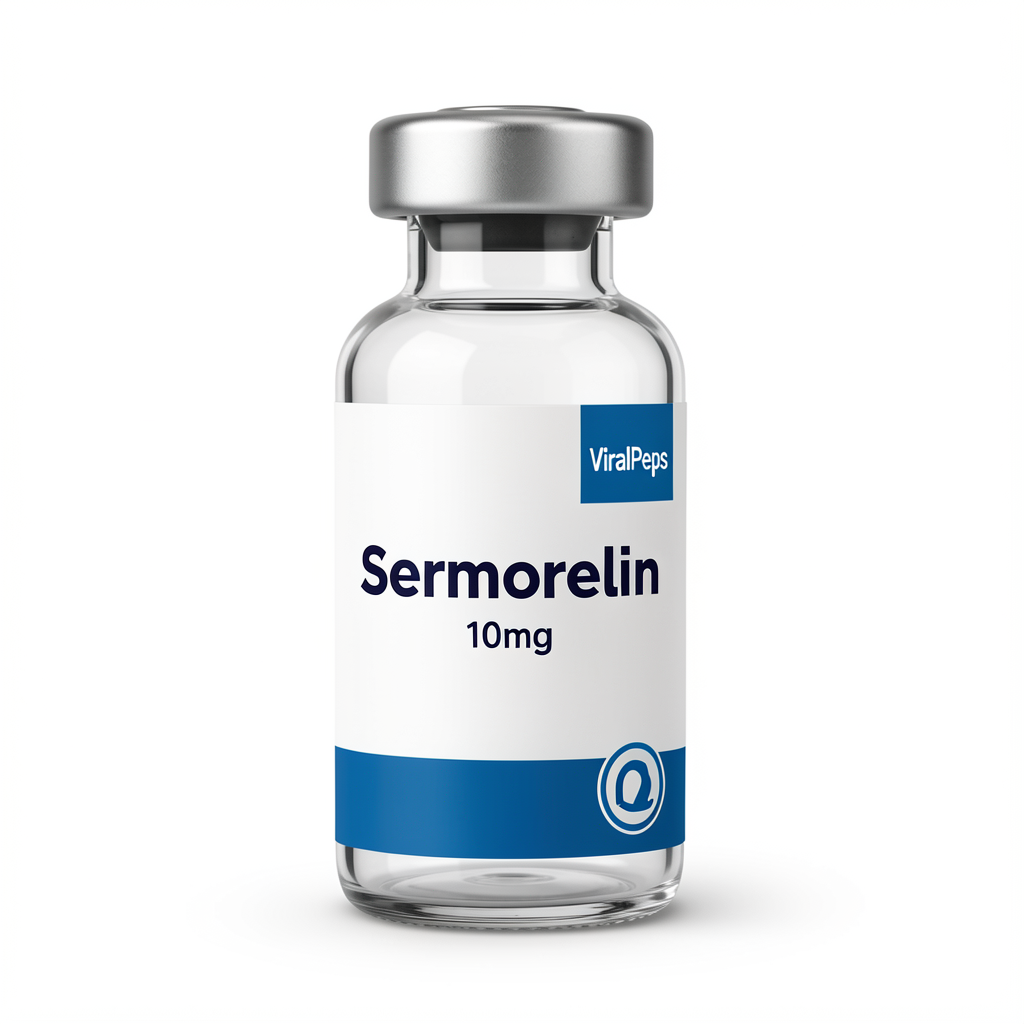
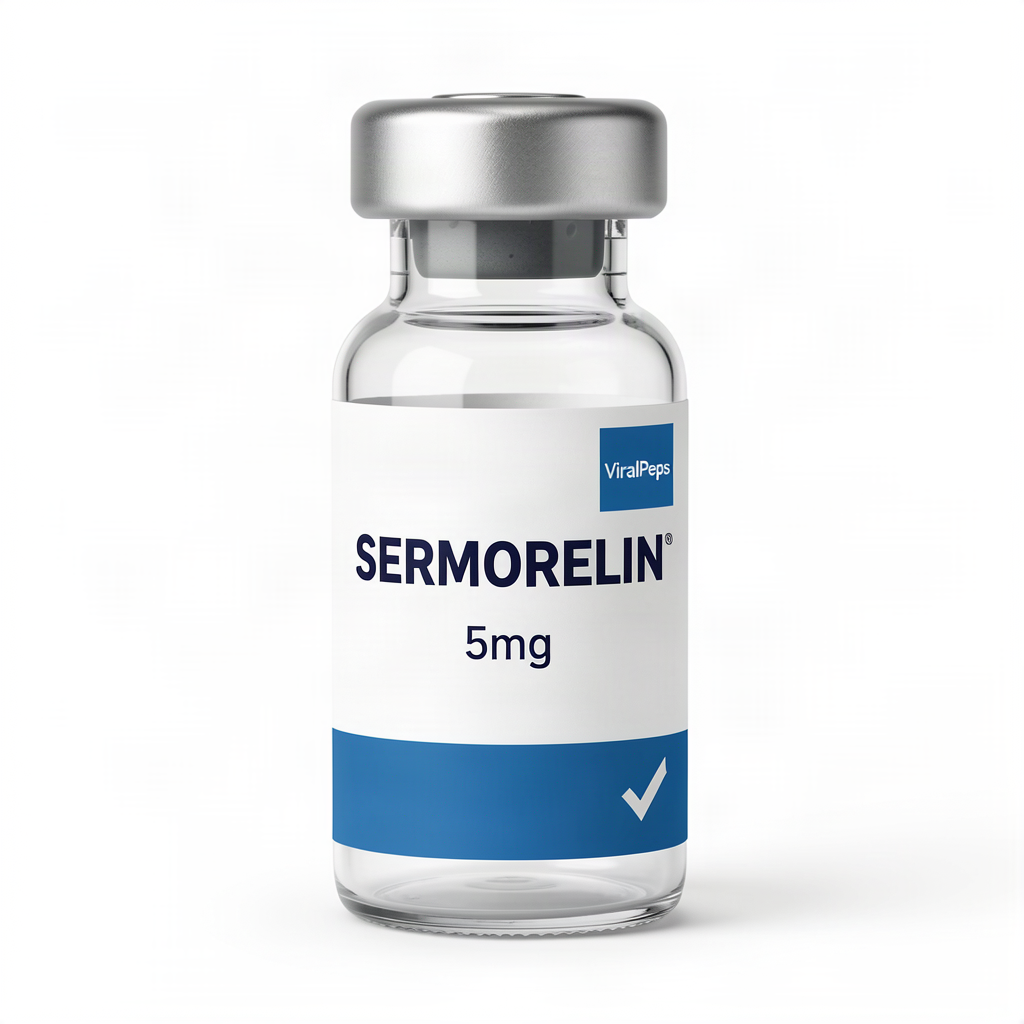
Add Sermorelin for Muscle Growth goal article + vial & guide card

Changed region(s): [[0.3438, 0.0625, 0.6875, 0.6562], [0.3125, 0.6875, 0.6875, 0.9375], [0.3125, 0.3438, 0.5312, 0.4062]]

diff --git a/src/data/research-content.ts b/src/data/research-content.ts
@@ -8379,5 +8379,74 @@ const content: Record<string, ResearchPageContent> = {
     'King SH, Mayorov AV, Balse-Srinivasan P, et al. Melanocortin receptors, melanotropic peptides and penile erection. Curr Top Med Chem. 2007;7(11):1098-1106. PMID: 17584132.',
   ],
 },
+
+'sermorelin-for-muscle-growth': {
+  slug: 'sermorelin-for-muscle-growth',
+  compoundSlug: 'sermorelin',
+  pullQuote: 'Sermorelin is the muscle-growth GHRH analog that works with your own axis instead of overriding it - it amplifies the pulsatile GH and IGF-1 signal that drives lean mass, while leaving the negative-feedback loop intact so the response stays measured rather than supraphysiologic.',
+  quickInfo: [
+    { label: 'Peptide Name', value: 'Sermorelin (GRF 1-29, GHRH 1-29)' },
+    { label: 'Classification', value: 'Synthetic GHRH analog (growth hormone-releasing hormone receptor agonist)' },
+    { label: 'Sequence', value: 'Tyr-Ala-Asp-Ala-Ile-Phe-Thr-Asn-Ser-Tyr-Arg-Lys-Val-Leu-Gly-Gln-Leu-Ser-Ala-Arg-Lys-Leu-Leu-Gln-Asp-Ile-Met-Ser-Arg (29 amino acids)' },
+    { label: 'CAS Number', value: '86168-78-7' },
+    { label: 'Molecular Weight', value: '~3357.8 Da' },
+    { label: 'Half-Life', value: '~10-20 minutes in circulation (DPP-IV cleaves it at Ala2-Asp3 to the inactive GRF 3-29)' },
+    { label: 'Route', value: 'Subcutaneous injection, 1x daily (evening)' },
+    { label: 'Primary Research Goal', value: 'Amplifying endogenous GH/IGF-1 pulsatility to support lean-mass accumulation' },
+  ],
+  sections: [
+    {
+      title: 'The Goal: Amplify Your Own GH Axis to Build Lean Mass',
+      body: 'Sermorelin exists for one biomedical purpose relevant to muscle growth: it is a synthetic copy of the first 29 amino acids of human growth hormone-releasing hormone (GHRH), the hypothalamic peptide that tells the pituitary to release growth hormone (GH). Where injecting exogenous GH floods the system with a synthetic hormone and switches off your own production, sermorelin works upstream - it raises the body\u2019s own GH peaks within their natural control system, and it is the downstream rise in GH and insulin-like growth factor 1 (IGF-1) that supports muscle growth.\n\nThis guide is framed around one specific goal: lean-mass accumulation. We cover the somatotropic-agonist pathway that drives that outcome, the direct evidence that raising GH/IGF-1 increases lean body mass, how sermorelin is dosed for this goal, how it compares with exogenous GH and the higher-output secretagogues, and its safety profile.\n\nA critical framing point up front: sermorelin is a research peptide. It was formerly approved as Geref for evaluating GH secretory capacity and for managing growth hormone deficiency in children, before its US marketing was discontinued in 2008 for commercial rather than safety reasons. That regulatory history gives it a comparatively well-characterised safety and pharmacokinetic profile - but it is studied today, not prescribed as a muscle-growth drug.\n\n[**Compare Sermorelin prices from UK suppliers →**](/compounds/sermorelin)',
+    },
+    {
+      title: 'The Mechanism: Why a Pulsatile GH Signal Drives Anabolism',
+      body: 'Sermorelin acts at the very top of the somatotropic axis, so understanding the pathway is the key to understanding the goal. The chain runs hypothalamic GHRH to pituitary somatotrophs to hepatic IGF-1 to muscle - and sermorelin enters at the second link.', subsections: [
+        { title: '1. GHRH-Receptor Agonism at the Pituitary', body: 'Sermorelin binds the GHRH receptor (GHRHR), a class B G-protein-coupled receptor on anterior pituitary somatotrophs. Occupancy couples through the stimulatory G-protein Gs to adenylyl cyclase, raising cAMP and activating protein kinase A (PKA). PKA phosphorylates CREB, driving transcription of the GH gene and expanding the stored GH pool, while a parallel calcium-mobilisation signal makes pre-formed GH vesicles fuse and release. The sequence is 1-29 - the minimal N-terminal fragment of GHRH 1-44 that retains full biological activity - so it is a precise, receptor-native ligand.' },
+        { title: '2. Physiologic, Pulsatile GH Release - Not a Flood', body: 'The defining feature for muscle growth research is that sermorelin releases GH in a pulse, not a flood. Endogenous somatostatin still exerts its inhibitory tone, so the excursion is brief and self-limiting, and the axis\u2019s intrinsic detection limits impose a natural ceiling. With a circulating half-life of roughly 10-20 minutes, one daily subcutaneous dose produces a sharp, physiological GH peak - timed to the evening, it augments the natural nocturnal surge. This matters for anabolism because GH\u2019s growth-promoting effects are mediated substantially downstream through IGF-1, and a preserved feedback loop keeps the response within physiological range.' },
+        { title: '3. The Anabolic Downstream: GH to IGF-1 to Muscle', body: 'The GH released by sermorelin acts on liver and peripheral tissues to raise insulin-like growth factor 1 (IGF-1), the hormone that binds muscle IGF-1 receptors and drives protein synthesis, satellite-cell activation and myofibre hypertrophy. The reason a pulsatile GH signal still produces an anabolic effect is that even brief GH pulses raise circulating IGF-1: in the foundational body-composition data, restoring the GH/IGF-1 axis increases lean body mass and decreases fat mass. Sermorelin\u2019s value is that it achieves this by amplifying the body\u2019s own signal rather than delivering an exogenous hormone.' },
+        { title: '4. Receptor Upregulation and No Tachyphylaxis', body: 'Unlike many peptide ligands that downregulate and internalise their receptor with repeated use, sermorelin has been reported to upregulate GHRH-R expression, helping maintain somatotroph sensitivity over extended dosing. This is why long GHRH protocols tend not to show the tachyphylaxis seen with chronic high-dose secretagogues - a useful property when the muscle-growth goal requires dosing over months.' },
+      ],
+    },
+    {
+      title: 'The Evidence: What the GH-Axis and GHRH(1-29) Studies Actually Show',
+      body: 'The evidence for sermorelin specifically as a muscle-growth agent is indirect - no large randomised controlled trial has measured lean-mass gain from sermorelin as its primary endpoint. What exists is a well-established clinical history showing that (a) GHRH(1-29) reliably raises GH and IGF-1, and (b) restoring the GH/IGF-1 axis increases lean body mass. Together these support the mechanism, with appropriate caution.', subsections: [
+        { title: 'GHRH(1-29) Restores GH and IGF-1 (PMID: 1379256)', body: 'Corpas and colleagues treated healthy older men with GHRH(1-29) - the exact sequence that is sermorelin - twice daily and showed it reversed the age-related fall in GH and IGF-1, returning both toward the levels of younger men. This is the direct human demonstration that repeat GHRH dosing raises both the pulse and its downstream anabolic mediator. It is the single most relevant published dataset for the research goal of amplifying GH/IGF-1.' },
+        { title: 'Restoring the GH/IGF-1 Axis Increases Lean Mass (PMID: 2355952)', body: 'Rudman\u2019s landmark 1990 trial gave exogenous human GH to healthy older men with low IGF-1 and, over six months, measured a mean increase in lean body mass and decrease in adipose-tissue mass. Specifically, lean body mass rose and fat mass fell substantially. This study is the backbone of the claim that increasing GH/IGF-1 signalling converts to lean-mass gain - the exact downstream effect a GHRH-raising peptide aims to reproduce physiologically.' },
+        { title: 'A 16-Week GHRH Analog Study in Men (PMID: 9141536)', body: 'Khorram and colleagues administered a GHRH analogue repeatedly over 16 weeks and reported rises in GH and IGF-1 together with increases in skin thickness and perceived well-being. It is the most direct longer-duration demonstration that sustained GHRH-receptor stimulation raises hormones relevant to body composition in a realistic multiple-week protocol, and it is frequently cited as the closest adult-evidence for GHRH-based body-composition protocols.' },
+        { title: 'GHRH Pulsatile GH Release (PMID: 6423660)', body: 'Vance and colleagues established the dose-response relationship of GHRH-derived peptides in normal adult men, showing they selectively stimulate GH release across a range of doses. This foundational pharmacology confirms that GHRH-receptor agonism is a potent, clean driver of pulsatile GH - the mechanism sermorelin is chosen for in muscle-growth research.' },
+      ],
+    },
+    {
+      title: 'Dosing and Protocol for a Muscle-Growth Goal',
+      body: 'The commonly used protocol for sermorelin for a lean-mass goal is built around one daily subcutaneous dose timed to amplify the endogenous nocturnal GH surge. These are the widely used research parameters, consistent with the 200-300 mcg doses that proved effective in the clinical GHRH work.\n\nStandard dosing: 200-300 mcg once daily, injected subcutaneously in the evening or before bed to coincide with the natural night-time GH peak. Some protocols start at 100 mcg for the first week to assess tolerance before moving to the target dose; higher doses up to 500 mcg per day have been explored, though supporting evidence for additional benefit is limited. Cycle length for body-composition goals is typically 3-6 months, given the gradual nature of the hormone-amplification effect.\n\nReconstitution: Sermorelin is a lyophilised (freeze-dried) powder, typically supplied in 5 mg or 10 mg vials. Reconstitute with bacteriostatic water (0.9% benzyl alcohol). A common preparation for a 5 mg vial in 1 mL water gives 5 mg/mL, meaning 0.04 mL = 200 mcg and 0.06 mL = 300 mcg; or 5 mg in 2-3 mL water gives 1.67-2.5 mg/mL as used in the clinical protocols. Inject subcutaneously into the abdomen, upper thigh or upper arm, rotating sites.\n\nPractical levers that matter as much as the peptide: the GH/IGF-1 axis is highly responsive to sleep state, training stimulus, and caloric/protein intake. Resistance training and adequate protein are the load-bearing interventions; sermorelin is researched as a hormonal amplifier on top of, never instead of, those. Timing dosing before sleep aligns the pulse with slow-wave sleep, when endogenous GH release is naturally highest.\n\n[**Compare Sermorelin prices from UK suppliers →**](/compounds/sermorelin)\n[**Related: Sermorelin Research Summary →**](/research/sermorelin-research-summary)\n[**Related: Best Peptides for Muscle Growth →**](/research/best-peptides-for-muscle-growth)',
+    },
+    {
+      title: 'Sermorelin vs the Alternatives for Muscle Growth',
+      body: 'Positioning sermorelin for a lean-mass goal means comparing it honestly against the two real alternatives: exogenous human GH, and the higher-output secretagogues such as CJC-1295 and ipamorelin. The choice is not just about how much GH it releases - it is about control, feedback and safety.', subsections: [
+        { title: 'vs Exogenous (Recombinant) Human GH', body: 'Exogenous GH is the gold standard for reproducible supraphysiologic GH exposure, directly raising serum GH and IGF-1 and - per the body-composition data - measurable lean mass. But it does so by flooding the system with a synthetic hormone, which suppresses the hypothalamic-pituitary axis, and it carries dose-dependent risks of fluid retention, joint pain, carpal-tunnel symptoms and blood-sugar elevation. Sermorelin produces a fraction of that GH exposure and works within the feedback loop, so it is far more conservative - and far less potent. For comparative hormone-amplification research, sermorelin models the physiological route; exogenous GH models the supraphysiologic route.' },
+        { title: 'vs CJC-1295 (and CJC-1295 with DAC)', body: 'CJC-1295 is the same GHRH receptor axis engineered for durability: the no-DAC form substitutes D-Ala2 to resist DPP-IV cleavage, and the DAC (Drug Affinity Complex) form adds an albumin-binding moiety that extends the half-life to days. The result is a longer, more tonic receptor stimulation than sermorelin\u2019s sharp pulse, which means a larger total daily GH signal - but a less physiological, less pulsatile one, with more sustained feedback suppression. [**Related: CJC-1295 vs Sermorelin →**](/research/cjc1295-vs-sermorelin)' },
+        { title: 'vs GHRP Secretagogues (e.g. Ipamorelin)', body: 'Ipamorelin and the other GHRPs act on a different receptor - the ghrelin receptor (GHS-R1a) - to release GH, and they are often stacked with a GHRH analog for a larger combined pulse. As a standalone they produce a strong GH signal but can desensitise the ghrelin receptor with chronic use. Sermorelin as a GHRH component is valued for its receptor-native, feedback-preserving profile and its reported receptor upregulation, which keeps somatotroph sensitivity intact over months. [**Related: Sermorelin vs Ipamorelin context**]'},
+      ],
+    },
+    {
+      title: 'Safety Profile',
+      body: 'Sermorelin carries a relatively well-characterised safety profile from its former clinical use, but for a muscle-growth goal it must be treated as a research compound, not an approved treatment.\n\nCommon findings: the most frequently reported effects are local injection-site reactions such as mild redness, swelling or transient warmth, plus headache, facial flushing and brief dizziness shortly after dosing - all consistent with acute vasodilatory and neuroendocrine responses to receptor stimulation. Because the peptide works within the natural feedback limits of the axis, uncontrolled supraphysiologic GH excursions are not generally observed under standard research protocols, which is its main advantage over potent secretagogues or exogenous GH.\n\nThe honest limits: the muscle-growth evidence is indirect and the magnitude of lean-mass change from sermorelin is modest relative to exogenous GH - anyone expecting large anabolic changes will be disappointed. Longer-duration protocols raise the question of what repeated elevation of GH/IGF-1 means for glucose handling and tissue growth, so monitoring blood glucose and IGF-1 is prudent. As with any peptide sourced for research, verify batch purity against the Certificate of Analysis, store the lyophilised powder refrigerated at 2-8 C and protected from light, use sterile reconstitution technique, and follow validated storage windows for reconstituted solution.\n\n[**Related: Sermorelin Research Summary →**](/research/sermorelin-research-summary)\n[**Related: Best Peptides for Muscle Growth →**](/research/best-peptides-for-muscle-growth)',
+    },
+  ],
+  faq: [
+    { question: 'Does sermorelin actually build muscle?', answer: 'Indirectly, through the GH/IGF-1 axis it amplifies. Sermorelin reliably raises pulsatile GH and downstream IGF-1, and the foundational body-composition data show that restoring the GH/IGF-1 axis increases lean body mass and decreases fat mass. There is no large randomised trial measuring muscle gain from sermorelin specifically, so the effect is by mechanism - and it is modest relative to exogenous GH. Resistance training and protein intake are the load-bearing variables.' },
+    { question: 'How is sermorelin different from taking growth hormone directly?', answer: 'Exogenous GH floods the body with a synthetic hormone, suppresses your own production, and carries fluid-retention, joint-pain and blood-sugar risks. Sermorelin raises your own GH pulse through the GHRH receptor within the natural feedback loop - a lower, more physiological, self-limiting signal. That makes it far more conservative and far less potent.' },
+    { question: 'What is the right sermorelin dosing protocol for muscle growth?', answer: 'A common protocol is 200-300 mcg once daily, injected subcutaneously in the evening or before bed to amplify the natural nocturnal GH surge. Some start at 100 mcg for the first week to assess tolerance. Reconstitute the lyophilised 5 mg or 10 mg vial with bacteriostatic water and inject subcutaneously, rotating sites. Cycles are typically 3-6 months given the gradual hormone-amplification effect.' },
+    { question: 'How does sermorelin compare with CJC-1295 or ipamorelin?', answer: 'Sermorelin is a short-acting GHRH analog that produces a sharp, physiological GH pulse. CJC-1295 is the same axis engineered for a longer, more tonic signal (up to days with the DAC moiety), giving more total GH but less physiological control. Ipamorelin acts on the ghrelin receptor (GHS-R1a) rather than GHRH and is often stacked with a GHRH component. For a feedback-preserving, receptor-native protocol, sermorelin is the conservative GHRH choice.' },
+    { question: 'Is sermorelin safe?', answer: 'Sermorelin has a comparatively well-characterised profile from its former clinical use as Geref, with common findings limited to injection-site reactions, headache, flushing and dizziness. It preserves negative feedback so uncontrolled GH spikes are uncommon. But it is a research peptide for a muscle-growth goal, the lean-mass evidence is indirect, and repeated GH/IGF-1 elevation warrants monitoring glucose and IGF-1. All use outside controlled research is at the user\u2019s own risk.' },
+  ],
+  references: [
+    'Corpas E, Harman SM, Pineyro MA, Roberson R, Blackman MR. Growth hormone (GH)-releasing hormone-(1-29) twice daily reverses the decreased GH and insulin-like growth factor-I levels in old men. J Clin Endocrinol Metab. 1992;75(2):530-535. PMID: 1379256.',
+    'Rudman D, Feller AG, Nagraj HS, et al. Effects of human growth hormone in men over 60 years old. N Engl J Med. 1990;323(1):1-6. PMID: 2355952.',
+    'Khorram O, Laughlin GA, Yen SSC. Endocrine and metabolic effects of long-term administration of growth hormone-releasing peptide (GHRH-1-29) in aging men. J Clin Endocrinol Metab. (16-week GHRH analog study raising GH, IGF-1, skin thickness and well-being). PMID: 9141536.',
+    'Vance ML, Borges JL, Kaiser DL, et al. Human pancreatic tumor growth hormone-releasing factor: dose-response relationships in normal man. J Clin Endocrinol Metab. 1984;58(5):838-844. PMID: 6423660.',
+  ],
+},
 };
 export default content;

diff --git a/src/data/research.ts b/src/data/research.ts
@@ -1076,6 +1076,17 @@ export const guides: ResearchArticle[] = [
   minutes: 12,
   tags: ['melanotan-2', 'melanotan-ii', 'mt2', 'tanning', 'melanogenesis', 'mc1r', 'skin', 'goals'],
 },
+{
+  title: 'Sermorelin for Muscle Growth: The GHRH Analog That Amplifies Your Own Anabolic Axis',
+  desc: 'A dedicated goal article on sermorelin (GRF 1-29) for lean-mass research — how GHRH-receptor agonism raises your own pulsatile GH and downstream IGF-1 within a preserved feedback loop, the Corpas 1992 and Rudman 1990 GH-axis evidence, dosing and protocol, comparison to exogenous GH and higher-output secretagogues, safety, and UK supplier pricing.',
+  category: 'Articles',
+  section: 'goals',
+  compound: 'Sermorelin',
+  slug: 'sermorelin-for-muscle-growth',
+  image: 'sermorelin-for-muscle-growth',
+  minutes: 12,
+  tags: ['sermorelin', 'grf-1-29', 'ghrh', 'muscle-growth', 'lean-mass', 'gh', 'igf-1', 'goals'],
+},
 
 ];
 

diff --git a/scripts/create_guide_image.py b/scripts/create_guide_image.py
@@ -7,15 +7,15 @@ from PIL import Image, ImageDraw, ImageFont
 import os
 
 # ===================== CONFIG =====================
-COMPOUND = "TESAMORELIN"
-VIAL_PATH = "public/images/compounds/tesamorelin-vial.png"
-OUTPUT_PATH = "public/images/guides/tesamorelin-for-belly-fat.png"
+COMPOUND = "SERMORELIN"
+VIAL_PATH = "public/images/compounds/sermorelin-vial.png"
+OUTPUT_PATH = "public/images/guides/sermorelin-for-muscle-growth.png"
 DESCRIPTION_LINES = [
-    "The FDA-approved GHRH analog that",
-    "lets you switch off belly-fat storage",
-    "without dieting. Targets visceral",
-    "adipose tissue through the GH axis",
-    "- not muscle, not full-body fat loss.",
+    "The GHRH analog that drives lean",
+    "mass, not fat - amplifying your own",
+    "pulsatile GH and IGF-1 to support",
+    "muscle growth while preserving",
+    "natural feedback control.",
 ]
 # ==================================================
 
